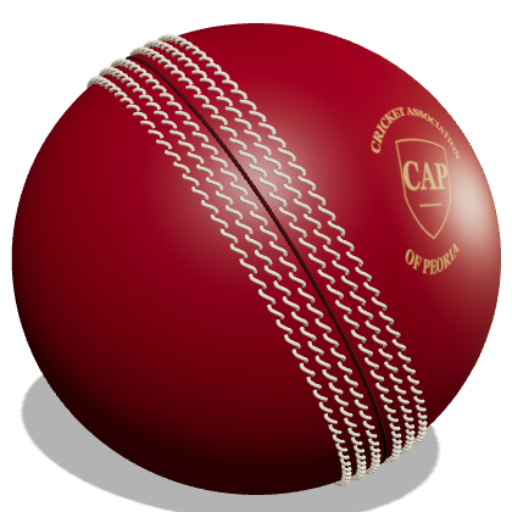
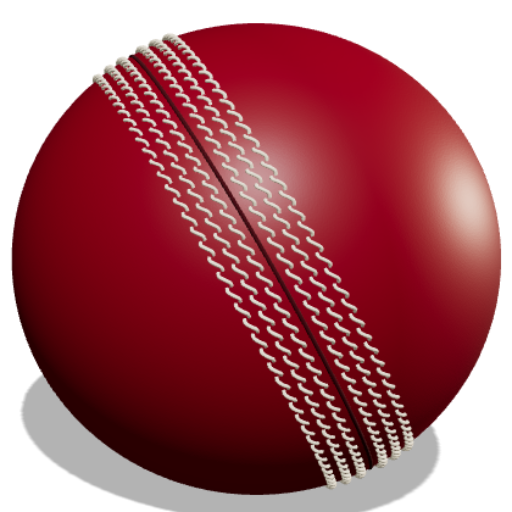
Improved cricket ball scene

diff --git a/web/src/components/CricketScene.jsx b/web/src/components/CricketScene.jsx
@@ -51,46 +51,6 @@ function Ball() {
     const context = canvas.getContext('2d');
     context.fillStyle = '#850d1d';
     context.fillRect(0, 0, canvas.width, canvas.height);
-    context.translate(canvas.width * 0.18, canvas.height * 0.30);
-    context.rotate(-Math.PI / 3);
-    context.scale(0.65, 1);
-    context.fillStyle = '#c4ac69';
-    context.strokeStyle = '#c4ac69';
-    context.globalAlpha = 0.85;
-    context.lineWidth = 2.5;
-    context.textAlign = 'center';
-    context.textBaseline = 'middle';
-    context.font = 'bold 25px Georgia';
-    const arcText = (text, radius, center, direction) => {
-      const widths = [...text].map((letter) => context.measureText(letter).width);
-      let angle = center - direction * widths.reduce((sum, width) => sum + width, 0) / radius / 2;
-      [...text].forEach((letter, index) => {
-        const step = widths[index] / radius;
-        angle += direction * step / 2;
-        context.save();
-        context.translate(Math.cos(angle) * radius, Math.sin(angle) * radius);
-        context.rotate(angle + direction * Math.PI / 2);
-        context.fillText(letter, 0, 0);
-        context.restore();
-        angle += direction * step / 2;
-      });
-    };
-    arcText('CRICKET ASSOCIATION', 125, -Math.PI / 2, 1);
-    arcText('OF PEORIA', 120, Math.PI / 2, -1);
-    context.beginPath();
-    context.moveTo(-70, -58);
-    context.quadraticCurveTo(0, -76, 70, -58);
-    context.lineTo(63, 24);
-    context.quadraticCurveTo(45, 62, 0, 81);
-    context.quadraticCurveTo(-45, 62, -63, 24);
-    context.closePath();
-    context.stroke();
-    context.font = 'bold 59px Georgia';
-    context.fillText('CAP', 0, -3);
-    context.beginPath();
-    context.moveTo(-30, 36);
-    context.lineTo(30, 36);
-    context.stroke();
     const texture = new CanvasTexture(canvas);
     texture.colorSpace = SRGBColorSpace;
     texture.anisotropy = 4;
@@ -115,10 +75,10 @@ function Ball() {
     document.addEventListener('visibilitychange', change);
     return () => document.removeEventListener('visibilitychange', change);
   }, []);
-  useFrame((state, delta) => {
+  useFrame((state) => {
     if (!visible.current || !group.current) return;
-    group.current.rotation.y += Math.min(delta, 0.05) * 0.13;
-    group.current.rotation.z = -1.05 + state.pointer.x * 0.08;
+    group.current.rotation.y = Math.sin(state.clock.elapsedTime * 0.35) * 0.08;
+    group.current.rotation.z = -1.05 + Math.sin(state.clock.elapsedTime * 0.5) * 0.025 + state.pointer.x * 0.05;
   });
   return <group ref={group} position={[2.5, 0, 0]} rotation={[0.15, 0, -1.05]}>
     <mesh castShadow><sphereGeometry args={[1.48, 96, 96]} /><meshPhysicalMaterial map={surface} roughness={0.48} metalness={0} clearcoat={0.15} clearcoatRoughness={0.45} bumpMap={leather} bumpScale={0.025} /></mesh>

diff --git a/test-results/web-tests-browser-hero-art-2f9dd-s-the-rendered-leather-ball/error-context.md b/test-results/web-tests-browser-hero-art-2f9dd-s-the-rendered-leather-ball/error-context.md
@@ -1,0 +1,24 @@
+# Instructions
+
+- Following Playwright test failed.
+- Explain why, be concise, respect Playwright best practices.
+- Provide a snippet of code with the fix, if possible.
+
+# Test info
+
+- Name: web\tests\browser\hero-art.spec.js >> reduced motion uses the rendered leather ball
+- Location: web\tests\browser\hero-art.spec.js:40:1
+
+# Error details
+
+```
+Error: browserType.launch: Executable doesn't exist at C:\Users\manthb\AppData\Local\ms-playwright\chromium_headless_shell-1243\chrome-headless-shell-win64\chrome-headless-shell.exe
+╔════════════════════════════════════════════════════════════╗
+║ Looks like Playwright was just installed or updated.       ║
+║ Please run the following command to download new browsers: ║
+║                                                            ║
+║     npx playwright install                                 ║
+║                                                            ║
+║ <3 Playwright Team                                         ║
+╚════════════════════════════════════════════════════════════╝
+```

diff --git a/test-results/web-tests-browser-hero-art-5a9e4-artwork-is-framed-at-1920px/error-context.md b/test-results/web-tests-browser-hero-art-5a9e4-artwork-is-framed-at-1920px/error-context.md
@@ -1,0 +1,24 @@
+# Instructions
+
+- Following Playwright test failed.
+- Explain why, be concise, respect Playwright best practices.
+- Provide a snippet of code with the fix, if possible.
+
+# Test info
+
+- Name: web\tests\browser\hero-art.spec.js >> cricket artwork is framed at 1920px
+- Location: web\tests\browser\hero-art.spec.js:4:3
+
+# Error details
+
+```
+Error: browserType.launch: Executable doesn't exist at C:\Users\manthb\AppData\Local\ms-playwright\chromium_headless_shell-1243\chrome-headless-shell-win64\chrome-headless-shell.exe
+╔════════════════════════════════════════════════════════════╗
+║ Looks like Playwright was just installed or updated.       ║
+║ Please run the following command to download new browsers: ║
+║                                                            ║
+║     npx playwright install                                 ║
+║                                                            ║
+║ <3 Playwright Team                                         ║
+╚════════════════════════════════════════════════════════════╝
+```

diff --git a/test-results/web-tests-browser-hero-art-0e288--artwork-is-framed-at-768px/error-context.md b/test-results/web-tests-browser-hero-art-0e288--artwork-is-framed-at-768px/error-context.md
@@ -1,0 +1,24 @@
+# Instructions
+
+- Following Playwright test failed.
+- Explain why, be concise, respect Playwright best practices.
+- Provide a snippet of code with the fix, if possible.
+
+# Test info
+
+- Name: web\tests\browser\hero-art.spec.js >> cricket artwork is framed at 768px
+- Location: web\tests\browser\hero-art.spec.js:4:3
+
+# Error details
+
+```
+Error: browserType.launch: Executable doesn't exist at C:\Users\manthb\AppData\Local\ms-playwright\chromium_headless_shell-1243\chrome-headless-shell-win64\chrome-headless-shell.exe
+╔════════════════════════════════════════════════════════════╗
+║ Looks like Playwright was just installed or updated.       ║
+║ Please run the following command to download new browsers: ║
+║                                                            ║
+║     npx playwright install                                 ║
+║                                                            ║
+║ <3 Playwright Team                                         ║
+╚════════════════════════════════════════════════════════════╝
+```

diff --git a/test-results/web-tests-browser-hero-art-91e8a--artwork-is-framed-at-320px/error-context.md b/test-results/web-tests-browser-hero-art-91e8a--artwork-is-framed-at-320px/error-context.md
@@ -1,0 +1,24 @@
+# Instructions
+
+- Following Playwright test failed.
+- Explain why, be concise, respect Playwright best practices.
+- Provide a snippet of code with the fix, if possible.
+
+# Test info
+
+- Name: web\tests\browser\hero-art.spec.js >> cricket artwork is framed at 320px
+- Location: web\tests\browser\hero-art.spec.js:4:3
+
+# Error details
+
+```
+Error: browserType.launch: Executable doesn't exist at C:\Users\manthb\AppData\Local\ms-playwright\chromium_headless_shell-1243\chrome-headless-shell-win64\chrome-headless-shell.exe
+╔════════════════════════════════════════════════════════════╗
+║ Looks like Playwright was just installed or updated.       ║
+║ Please run the following command to download new browsers: ║
+║                                                            ║
+║     npx playwright install                                 ║
+║                                                            ║
+║ <3 Playwright Team                                         ║
+╚════════════════════════════════════════════════════════════╝
+```
